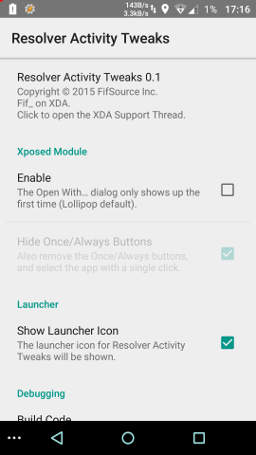
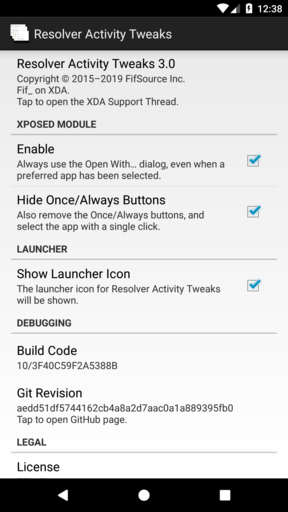
Release 3.0: Bump versions in build.gradle. Update screenshot of setting screen.

diff --git a/README.md b/README.md
@@ -73,12 +73,18 @@ Finally this is how the app looks:
 
 ## Changelog
 
-### WIP
+### 3.0 - February 27, 2019
 
 * Use [Remote Preferences](https://github.com/apsun/RemotePreferences),
   so that we don't depend on `MODE_WORLD_READABLE` ever again.
+  
 * No reboots are needed anymore when changing settings on all Android
   versions.
+  
+* Added a license button in the preferences Legal sections, opening
+  to the GPLv3 in the GitHub repository.
+  
+* Now targeting Android SDK 27 (instead of 23).
 
 ### 2.1 - February 26, 2019
 
